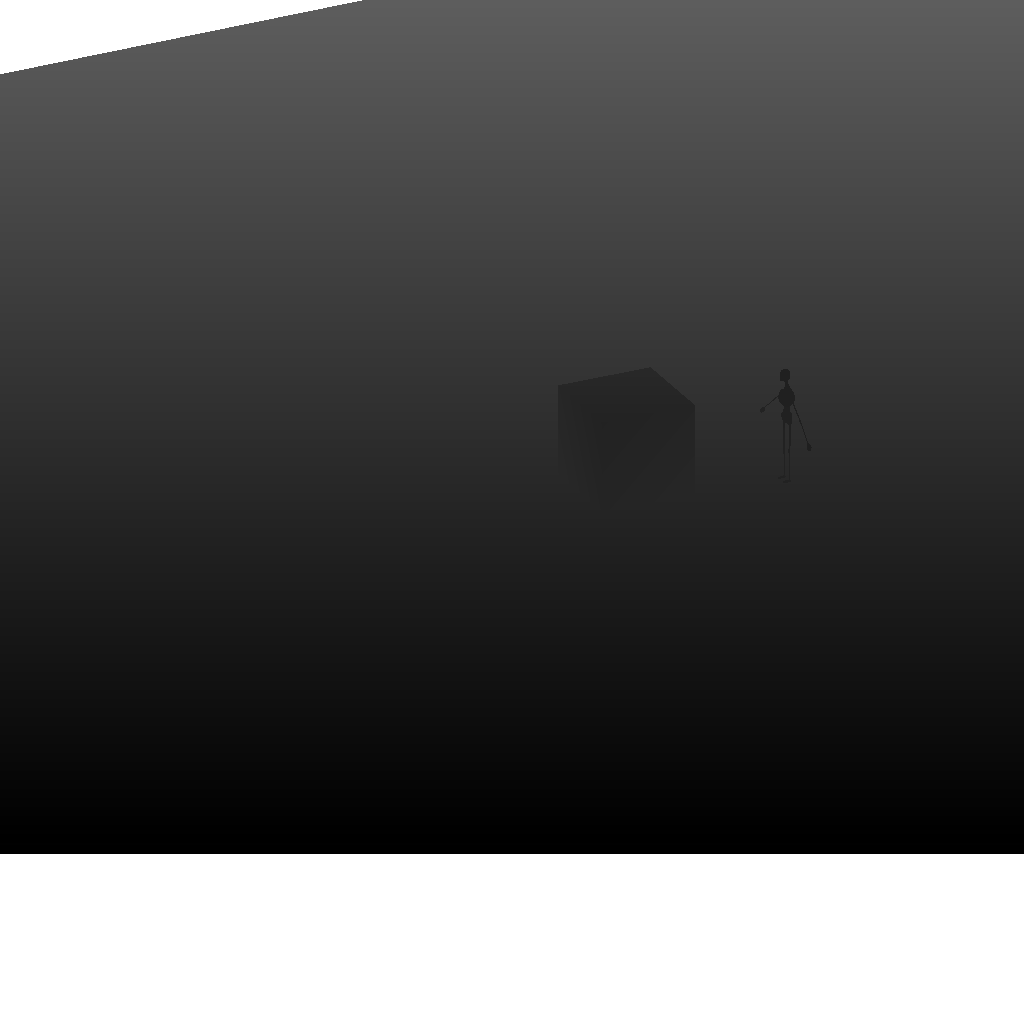
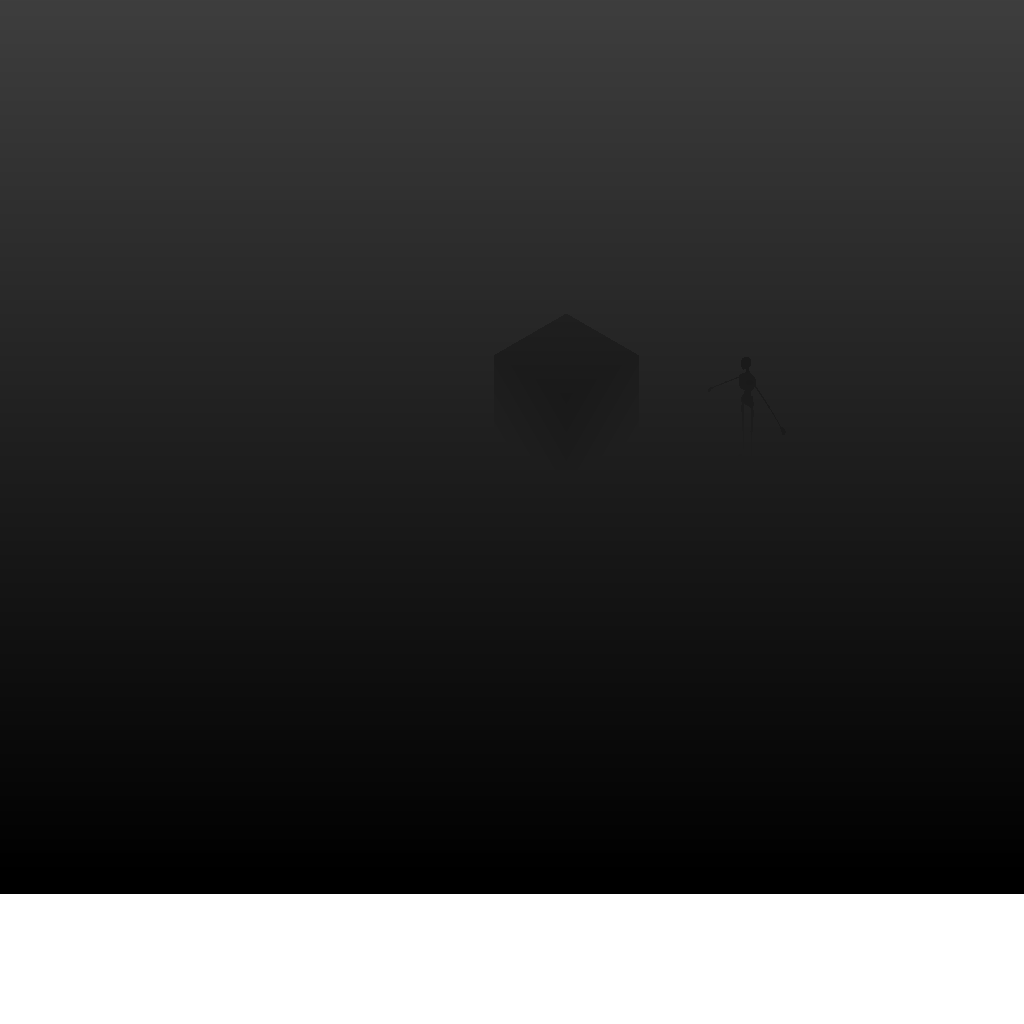
add shadows

diff --git a/engine/runtime/runtime.cpp b/engine/runtime/runtime.cpp
@@ -70,9 +70,10 @@ Skybox* Runtime::getActiveSkybox()
 	return activeSkybox;
 }
 
-unsigned int Runtime::getShadowMap()
+void Runtime::bindShadowMap(unsigned int slot)
 {
-	return shadowMap;
+	glActiveTexture(GL_TEXTURE0 + slot);
+	glBindTexture(GL_TEXTURE_2D, shadowMap);
 }
 
 void glfw_error_callback(int error, const char* description)
@@ -90,8 +91,10 @@ void createShadowMap(unsigned int& depthMap, unsigned int size, unsigned int& fb
 	glTexImage2D(GL_TEXTURE_2D, 0, GL_DEPTH_COMPONENT, SHADOW_MAP_WIDTH, SHADOW_MAP_HEIGHT, 0, GL_DEPTH_COMPONENT, GL_FLOAT, nullptr);
 	glTexParameteri(GL_TEXTURE_2D, GL_TEXTURE_MIN_FILTER, GL_NEAREST);
 	glTexParameteri(GL_TEXTURE_2D, GL_TEXTURE_MAG_FILTER, GL_NEAREST);
-	glTexParameteri(GL_TEXTURE_2D, GL_TEXTURE_WRAP_S, GL_REPEAT);
-	glTexParameteri(GL_TEXTURE_2D, GL_TEXTURE_WRAP_T, GL_REPEAT);
+	glTexParameteri(GL_TEXTURE_2D, GL_TEXTURE_WRAP_S, GL_CLAMP_TO_BORDER);
+	glTexParameteri(GL_TEXTURE_2D, GL_TEXTURE_WRAP_T, GL_CLAMP_TO_BORDER);
+	float borderColor[] = { 1.0f, 1.0f, 1.0f, 1.0f };
+	glTexParameterfv(GL_TEXTURE_2D, GL_TEXTURE_BORDER_COLOR, borderColor);
 
 	glBindFramebuffer(GL_FRAMEBUFFER, fbo);
 	glFramebufferTexture2D(GL_FRAMEBUFFER, GL_DEPTH_ATTACHMENT, GL_TEXTURE_2D, depthMap, 0);
@@ -265,7 +268,6 @@ int Runtime::START_LOOP() {
 
 		// Set viewport and bind shadow map framebuffer
 		glViewport(0, 0, shadowMapSize, shadowMapSize);
-		glEnable(GL_DEPTH_TEST);
 		glBindFramebuffer(GL_FRAMEBUFFER, shadowMapFramebuffer);
 		glClear(GL_DEPTH_BUFFER_BIT);
 
@@ -276,10 +278,13 @@ int Runtime::START_LOOP() {
 		EntityProcessor::currentLightSpace = lightSpace;
 
 		// Bind shadow pass shader and render each objects depth on shadow map
+		glEnable(GL_DEPTH_TEST);
+		glCullFace(GL_FRONT);
 		shadowPassShader->bind();
 		for (int i = 0; i < entityLinks.size(); i++) {
 			entityLinks.at(i)->shadowPass();
 		}
+		glCullFace(GL_BACK);
 
 		// Save depth map
 		if (!depth_map_saved) {

diff --git a/engine/rendering/material/lit_material.h b/engine/rendering/material/lit_material.h
@@ -9,19 +9,25 @@
 class LitMaterial : public IMaterial
 {
 public:
-	LitMaterial(Texture* texture) {
+	LitMaterial(Texture* diffuseTexture) {
 
 		shader = ShaderBuilder::get("lit");
-		this->texture = texture;
+		this->diffuseTexture = diffuseTexture;
 		baseColor = glm::vec4(1.0f);
-		lightPosition = glm::vec3(0.0f);
 
 	}
 
 	void bind() {
 		shader->bind();
-		texture->bind();
+
 		shader->setVec4("baseColor", baseColor);
+
+		diffuseTexture->bind(0);
+		shader->setInt("diffuseTexture", 0);
+
+		Runtime::bindShadowMap(1);
+		shader->setInt("shadowMap", 1);
+
 		shader->setVec3("cameraPosition", Transformation::prepareWorldPosition(Runtime::getCameraRendering()->position));
 		shader->setVec3("lightPosition", Transformation::prepareWorldPosition(Runtime::lightPosition));
 		shader->setFloat("lightIntensity", Runtime::lightIntensity);
@@ -31,9 +37,9 @@ public:
 		return shader;
 	}
 
-	Texture* texture;
 	glm::vec4 baseColor;
-	glm::vec3 lightPosition;
+
+	Texture* diffuseTexture;
 private:
 	Shader* shader;
 };

diff --git a/engine/rendering/skybox/skybox.cpp b/engine/rendering/skybox/skybox.cpp
@@ -16,18 +16,31 @@ Skybox::Skybox(Cubemap* cubemap, Shader* custom_shader)
 
 void Skybox::render(glm::mat4 view, glm::mat4 projection)
 {
+    // Cache depth function used before
+    GLint defaultDepthFunction;
+    glGetIntegerv(GL_DEPTH_FUNC, &defaultDepthFunction);
+
+    // Set custom depth function for skybox render
     glDepthFunc(GL_LEQUAL);
 
+    // Set skyvbox shader transformation matrices
     view = glm::mat4(glm::mat3(view));
     shader->bind();
     shader->setMatrix4("view", view);
     shader->setMatrix4("projection", projection);
 
+    // Bind skybox vao
     glBindVertexArray(vao);
+
+    // Bind cubemap texture
+    glActiveTexture(GL_TEXTURE0);
     glBindTexture(GL_TEXTURE_CUBE_MAP, texture_id);
+
+    // Draw skybox
     glDrawArrays(GL_TRIANGLES, 0, 36);
 
-    glDepthFunc(GL_LESS);
+    // Reset depth function to depth function used before
+    glDepthFunc(defaultDepthFunction);
 }
 
 void Skybox::generate()

diff --git a/user/src/game_logic.cpp b/user/src/game_logic.cpp
@@ -7,7 +7,6 @@
 #include "../engine/camera/camera.h"
 #include "../engine/rendering/material/unlit_material.h"
 #include "../engine/rendering/material/lit_material.h"
-#include "../engine/rendering/material/rainbow_material.h"
 
 Camera* camera = nullptr;
 Entity* cube = nullptr;
@@ -68,7 +67,7 @@ void awake() {
 	Model* mannequinModel = new Model("./user/assets/models/mannequin.fbx", lit);
 	mannequin = new Entity();
 	mannequin->model = mannequinModel;
-	mannequin->position = glm::vec3(1.0f, 0.0f, 5.5f);
+	mannequin->position = glm::vec3(1.0f, -0.9f, 5.5f);
 	mannequin->rotation = glm::vec3(90.0f, 0.0f, 0.0f);
 }
 
@@ -84,5 +83,5 @@ void update() {
 	angle += 0.01f; // Adjust the speed of rotation by changing this value*/
 
 	// Rotate the cube on the y-axis
-	cube->rotation.y += 1.0f;
+	// cube->rotation.y += 1.0f;
 }

diff --git a/engine/runtime/runtime.h b/engine/runtime/runtime.h
@@ -90,7 +90,7 @@ public:
 	static bool showDiagnostics; // Shows performance diagnostics such as fps etc.
 
 	// Shadow settings
-	static unsigned int getShadowMap();
+	static void bindShadowMap(unsigned int slot);
 private:
 	static std::vector<EntityProcessor*> entityLinks; // All entities that will be processed by the runtime
 

diff --git a/engine/rendering/texture/texture.cpp b/engine/rendering/texture/texture.cpp
@@ -37,6 +37,7 @@ Texture::Texture(std::string path,TextureType type)
 	stbi_image_free(data);
 }
 
-void Texture::bind() {
+void Texture::bind(unsigned int slot) {
+	glActiveTexture(GL_TEXTURE0 + slot);
 	glBindTexture(GL_TEXTURE_2D, id);
 }

diff --git a/engine/rendering/material/unlit_material.h b/engine/rendering/material/unlit_material.h
@@ -20,7 +20,10 @@ public:
 	void bind() {
 
 		shader->bind();
-		texture->bind();
+
+		texture->bind(0);
+		shader->setInt("baseTexture", 0);
+
 		shader->setVec4("baseColor", baseColor);
 	}
 

diff --git a/engine/rendering/texture/texture.h b/engine/rendering/texture/texture.h
@@ -19,7 +19,7 @@ public:
 
 	TextureType type;
 
-	void bind();
+	void bind(unsigned int slot);
 private:
 	unsigned int id;
 };
